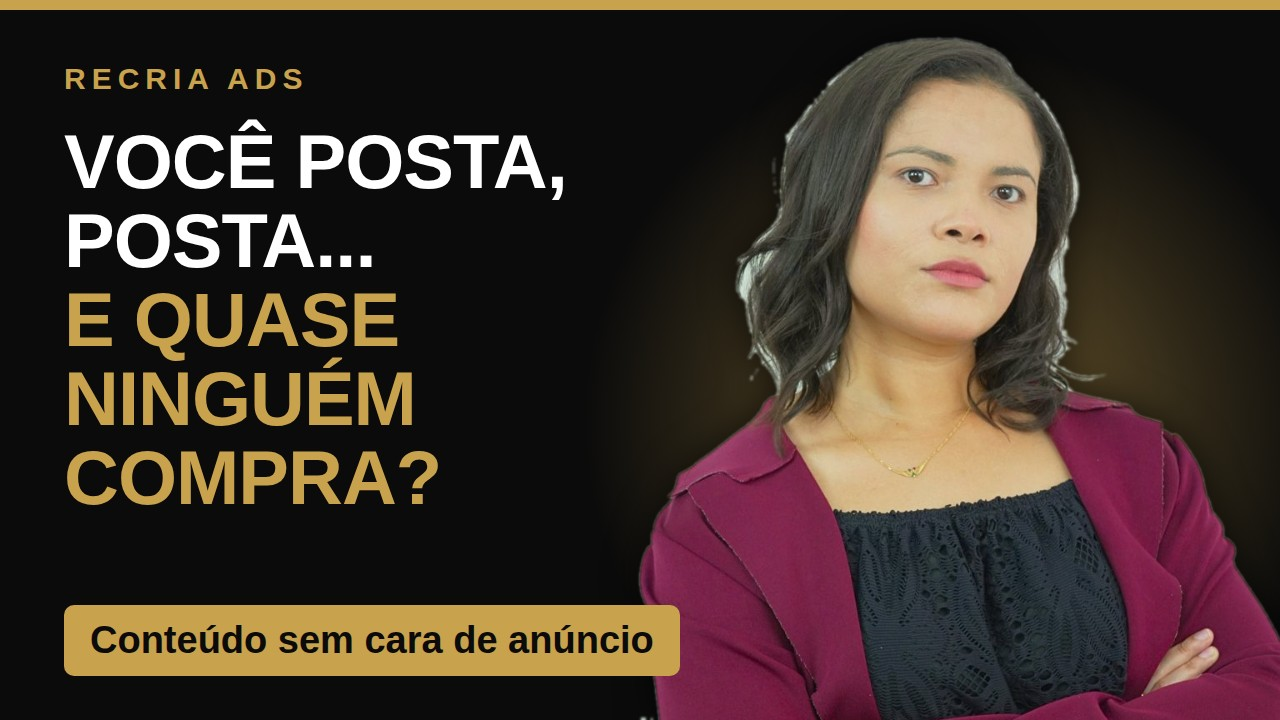
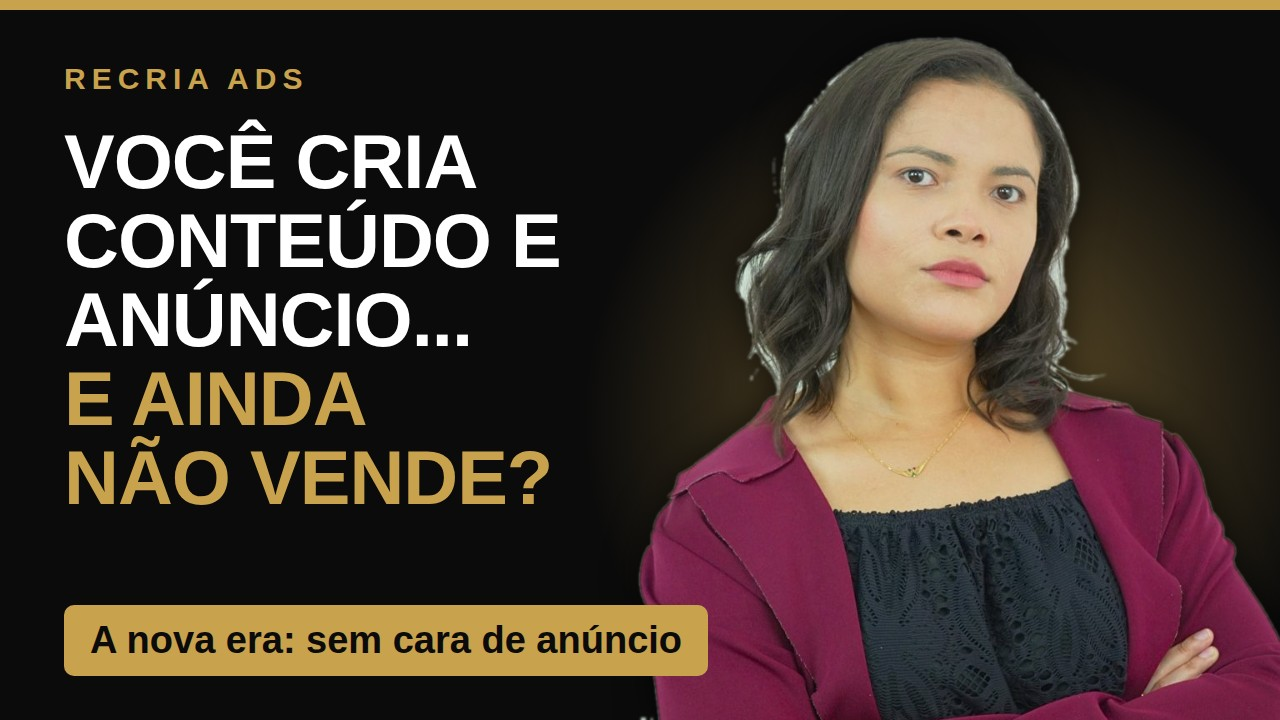
Recria Ads: nova capa do vídeo (cria conteúdo e anúncio e ainda não vende)
Claude-Session: https://claude.ai/code/session_01DxpPKgzfVt8WYQSkZW1Msu

Changed region(s): [[0.0312, 0.1833, 0.4375, 0.7028], [0.0625, 0.825, 0.5625, 0.9472]]

diff --git a/recria-ads/index.html b/recria-ads/index.html
@@ -180,7 +180,7 @@ if(c.VIDEO){var v=c.VIDEO,src=v,m;
  else if((m=v.match(/vimeo\.com\/(\d+)/)))src="https://player.vimeo.com/video/"+m[1];
  var box=document.getElementById("vsl"),av=document.getElementById("vslAviso");
  av.style.display="block";box.className="video vsl-capa";box.style.padding="0";
- box.innerHTML='<button type="button" class="vsl-play" aria-label="Assistir ao vídeo com som"><img src="assets/vsl-capa.jpg" alt="Você posta, posta... e quase ninguém compra? Assista ao vídeo do Recria Ads" width="1280" height="720"><span class="vsl-btn"><svg viewBox="0 0 24 24" width="38" height="38"><path d="M8 5v14l11-7z" fill="#0B0B0B"/></svg></span></button>';
+ box.innerHTML='<button type="button" class="vsl-play" aria-label="Assistir ao vídeo com som"><img src="assets/vsl-capa.jpg" alt="Você cria conteúdo e anúncio e ainda não vende? Assista ao vídeo do Recria Ads" width="1280" height="720"><span class="vsl-btn"><svg viewBox="0 0 24 24" width="38" height="38"><path d="M8 5v14l11-7z" fill="#0B0B0B"/></svg></span></button>';
  box.querySelector("button").addEventListener("click",function(){
   var sep=src.indexOf("?")>-1?"&":"?";
   box.innerHTML='<iframe src="'+src+sep+'autoplay=1" style="width:100%;height:100%;border:0;border-radius:8px" allow="autoplay; fullscreen; picture-in-picture" allowfullscreen title="Vídeo de vendas do Recria Ads"></iframe>';
